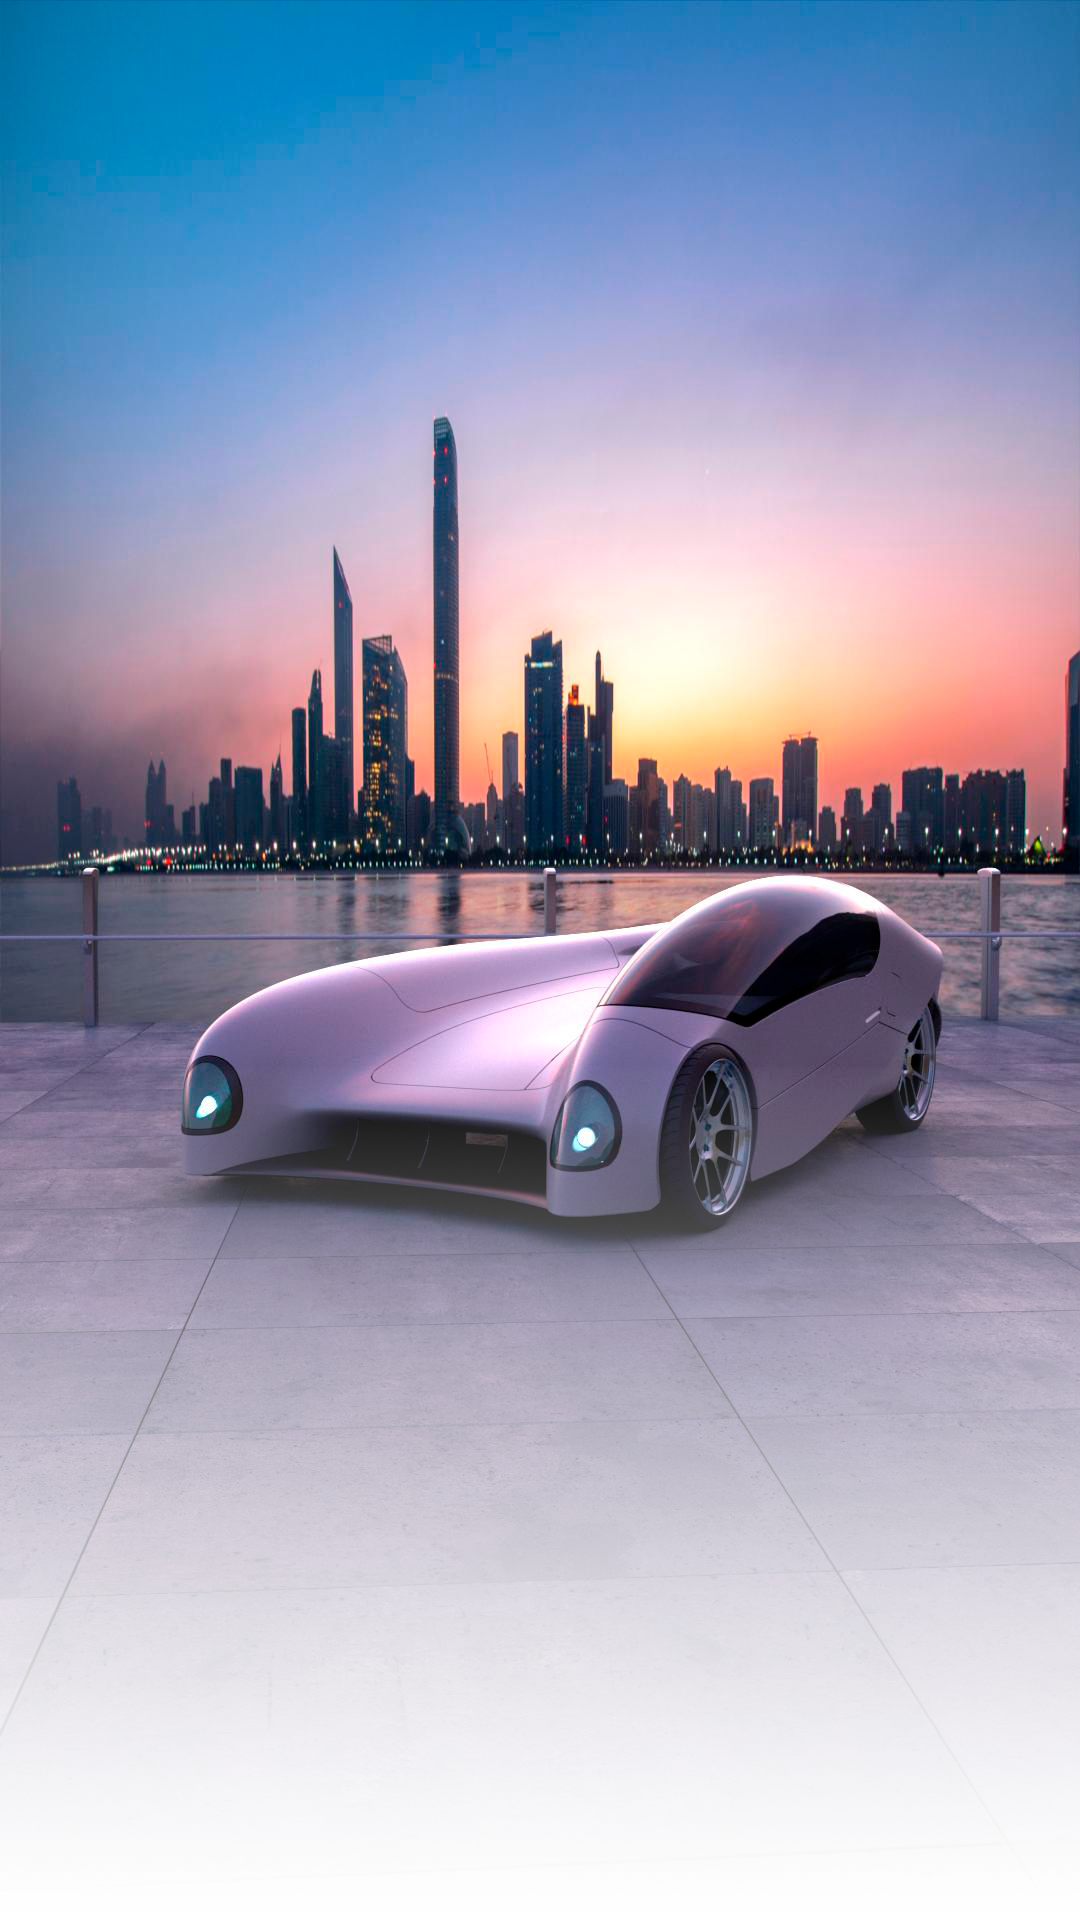
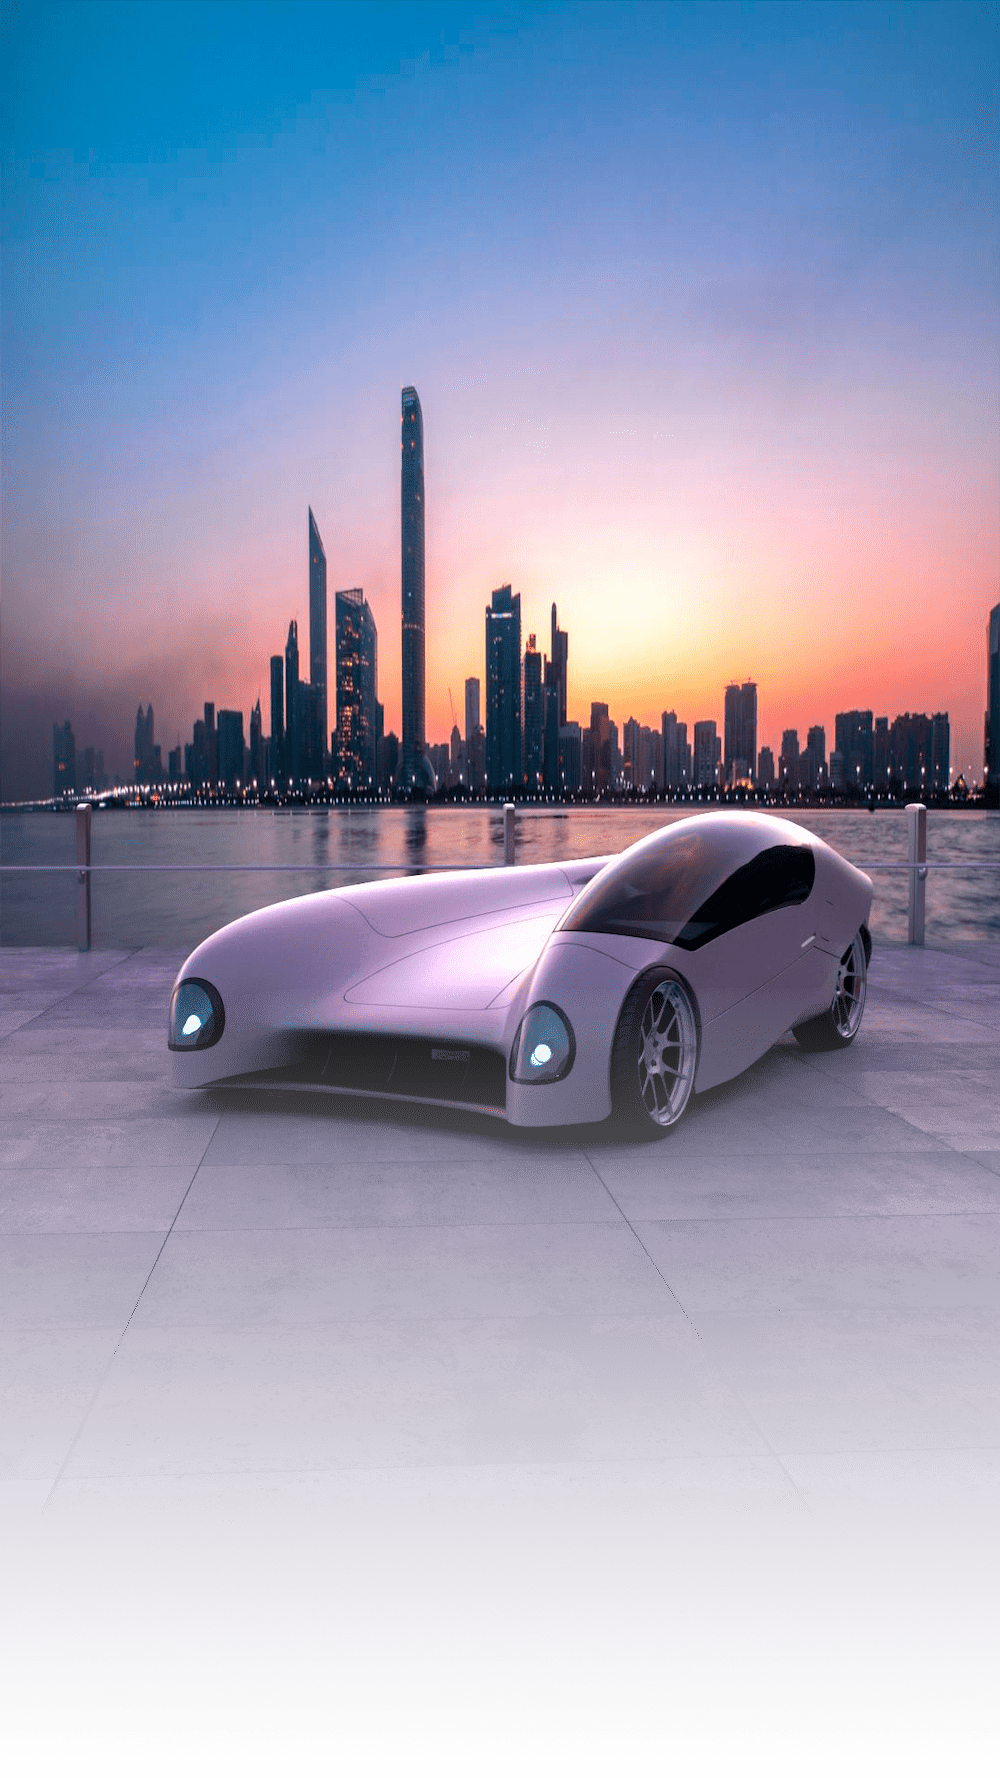
fixed

diff --git a/index.html b/index.html
@@ -84,7 +84,7 @@
       <main>
 
 <section class="DesktopDiv">
-          <img class="PictureOfCar" src="images/testbild.jpg" />
+          <img class="PictureOfCar" src="images/motion.png" />
           <article class="FirstSectionText">
         
           <h2>SS ONE</h2>

diff --git a/Styling/text.css b/Styling/text.css
@@ -216,6 +216,11 @@ h3 {
     width: 40%;
     padding-left: 0px;
     padding-right: 40px;
+    padding-top: 20px;
+  }
+
+  .FirstSectionText .BreadText {
+    padding-bottom: 20px;
   }
 
   .SecondSectionText {

diff --git a/Styling/images.css b/Styling/images.css
@@ -9,7 +9,7 @@
   background-size: cover;
   position: relative;
   margin: 0px;
-  margin-bottom: 150px;
+  margin-bottom: 100px;
 }
 
 .MainPicture {
